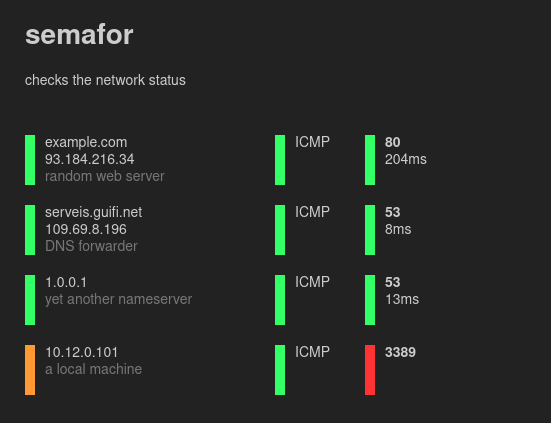
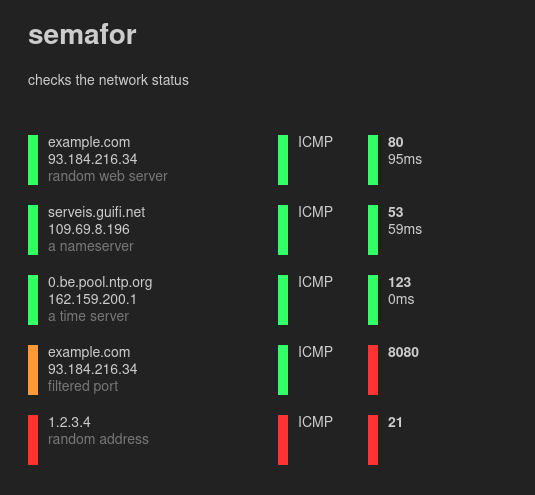
first commit

diff --git a/index.php b/index.php
@@ -1,13 +1,13 @@
 <?php
 
-require_once 'config.php';
-require_once 'locale/'.LOCALE.'.php';
+require 'config.php';
+require 'locale/'.LOCALE.'.php';
 ini_set('error_reporting',ERROR_REPORTING);
 ini_set('display_errors',DISPLAY_ERRORS);
 
-require_once 'hosts.php';
-require_once 'include/functions.php';
-include 'include/template/head.php';
+require 'hosts.php';
+require 'include/functions.php';
+require 'include/template/head.php';
 ?>
 			<h1><?=TITLE?></h1>
 			<p><?=checks_network_status?></p>
@@ -16,8 +16,24 @@ include 'include/template/head.php';
 foreach ($hosts as $host) {
 	//if the host is an IP already then skip resolving
 	if (!filter_var($host['name'],FILTER_VALIDATE_IP)) {
+		//validated as an hostname
+		if (substr($host['name'],0,6) == 'udp://') {
+			//remove the prefix
+			$host['name'] = substr($host['name'],6,strlen($host['name']));
+			$prefix = 'udp://';
+		}
+		else {
+			$prefix = '';
+		}
 		$address = resolve($host['name']);
-		$id = $host['name'].'<br />'.$address;
+		if ($address) {
+			//resolved
+			$id = $host['name'].'<br />'.$address;
+		}
+		else {
+			//unresolved, ignore
+			continue;
+		}
 	}
 	else {
 		$address = $host['name'];
@@ -36,7 +52,7 @@ foreach ($hosts as $host) {
 		 * because in some (not so) exotic cases it is filtered out
 		 * in purpose
 		 */
-		$lapse = socket($address,$host['port']).'ms';
+		$lapse = socket($prefix,$address,$host['port']).'ms';
 		if ($lapse != -1) {
 			$socket_class = ' green';
 		}
@@ -73,6 +89,6 @@ foreach ($hosts as $host) {
 }
 echo "			</div>\n";
 
-include 'include/template/base.php';
+require 'include/template/base.php';
 
 ?>

diff --git a/hosts.php b/hosts.php
@@ -2,9 +2,10 @@
 
 $hosts = [
 	['name' => 'example.com', 'port' => 80, 'description' => 'random web server'],
-	['name' => 'serveis.guifi.net', 'port' => 53, 'description' => 'DNS forwarder'],
-	['name' => '1.0.0.1', 'port' => 53, 'description' => 'yet another nameserver'],
-	['name' => '10.12.0.101', 'port' => 3389, 'description' => 'a local machine'],
+	['name' => 'serveis.guifi.net', 'port' => 53, 'description' => 'a nameserver'],
+	['name' => 'udp://0.be.pool.ntp.org', 'port' => 123, 'description' => 'a time server'],
+	['name' => 'example.com', 'port' => 8080, 'description' => 'filtered port'],
+	['name' => '1.2.3.4', 'port' => 21, 'description' => 'random address'],
 ];
 
 ?>

diff --git a/include/functions.php b/include/functions.php
@@ -22,10 +22,10 @@ function ping($address) {
 	}
 }
 
-function socket($address,$port) {
+function socket($prefix,$address,$port) {
 	//returns -1 on failure, 3-way handshake time (ms) on success
 	$starttime = microtime(true);
-	$file = @fsockopen($address,$port,$errno,$errstr,1);
+	$file = @fsockopen($prefix.$address,$port,$errno,$errstr,1);
 	$stoptime = microtime(true);
 	
 	if (!$file) {

diff --git a/README.md b/README.md
@@ -13,9 +13,10 @@ The web frontend shows the status of a series of hosts. It allows testing separa
 ```
 $hosts = [
 	['name' => 'example.com', 'port' => 80, 'description' => 'random web server'],
-	['name' => 'serveis.guifi.net', 'port' => 53, 'description' => 'DNS forwarder'],
-	['name' => '1.0.0.1', 'port' => 53, 'description' => 'yet another nameserver'],
-	['name' => '10.12.0.101', 'port' => 3389, 'description' => 'a local machine'],
+	['name' => 'serveis.guifi.net', 'port' => 53, 'description' => 'a nameserver'],
+	['name' => 'udp://0.be.pool.ntp.org', 'port' => 123, 'description' => 'a time server'],
+	['name' => 'example.com', 'port' => 8080, 'description' => 'filtered port'],
+	['name' => '1.2.3.4', 'port' => 21, 'description' => 'random address'],
 ];
 ```
 
